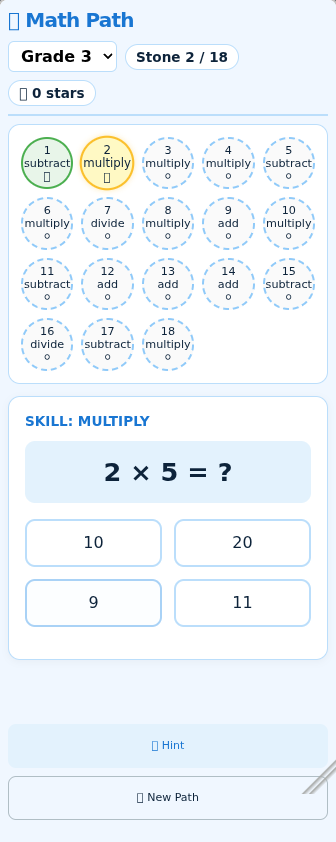
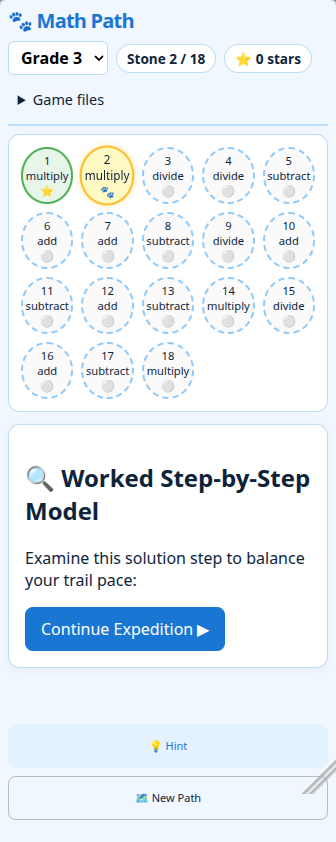
Show a round reopened through Files on desktop and phone

diff --git a/README.md b/README.md
@@ -10,4 +10,4 @@ The release candidate opened from Games → Learning & Strategy. The browser che
 
 Run the native suite in the WebOS npm workspace with `node --test tests/*.test.mjs` from this directory.
 
-Use **Game files → Save** to keep a round as `.math-path.json`. Open that file from WebOS Files to continue playing. Anon games stay in the browser until you register an account.
+Use **Game files → Save** to keep a round as `.math-path.json`. Open that file from WebOS Files to continue playing. Anon files last for this browser tab. Register before leaving to keep them in your account.
